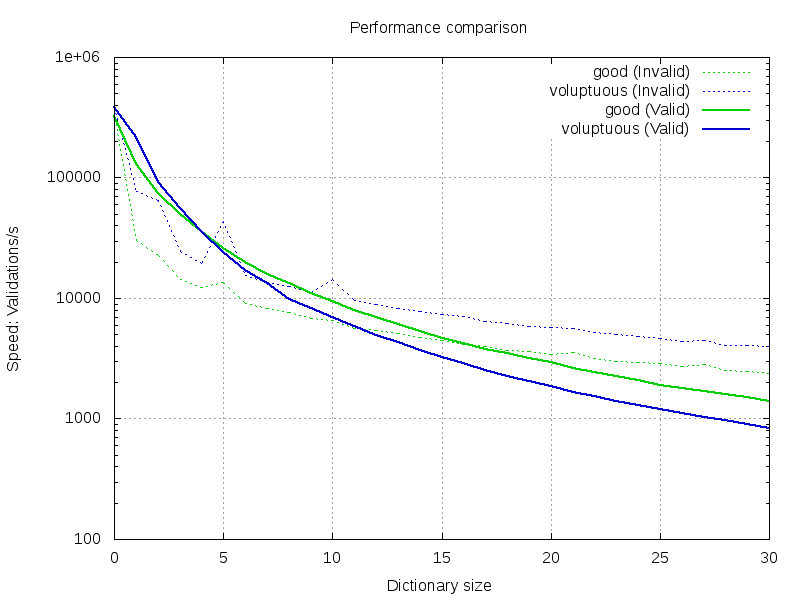
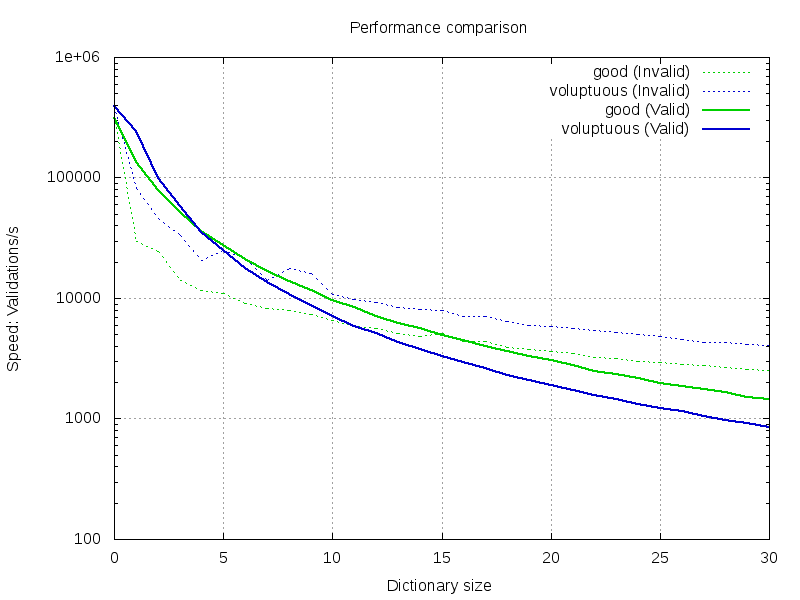
performance: updated the comparison

diff --git a/good/__init__.py b/good/__init__.py
@@ -8,6 +8,7 @@ Core features:
 * Error paths (which field contains the error)
 * User-friendly error messages
 * Internationalization!
+* [Robust](misc/performance/performance.md): 10 000 validations per second
 * Python 2.7, 3.3+ compatible
 
 Inspired by the amazing [alecthomas/voluptuous](https://github.com/alecthomas/voluptuous) and 100% compatible with it.

diff --git a/misc/performance/performance.md b/misc/performance/performance.md
@@ -8,21 +8,29 @@ In this test, we compare the performance of:
 
 The [test script](performance.py) generates random dictionary schemas,
 increasing its size, and compares how performant both libraries are
-on those schemas.
+on those schemas. These schemas are validated with both libraries and 
+a report is generated ([performance.dat](performance.dat)).
+
+Hardware:
+* CPU: Intel(R) Core(TM) i5 CPU, 2.4 GHz
+* RAM: 8 GiB
+* Ubuntu Linux 14.04
+* Python 2.7.6 (which is supported by both libraries)
+
+Results
+-------
 
 Solid line shows the performance of successful validations.
 Dashed line shows the performance of invalid values (raising errors).
 
-Validations Per Second
-----------------------
+### Validations Per Second
 
 In this test, we compare how many validations per second each of the libraries can do.
 A "validation" is an attempt to validate a value against the schema only.
 
 <img src="performance-vps.png" />
 
-Total Execution Time
---------------------
+### Total Execution Time
 
 In this test, we compare how much time a library needs to validate 5000 dictionaries
 with a schema.
